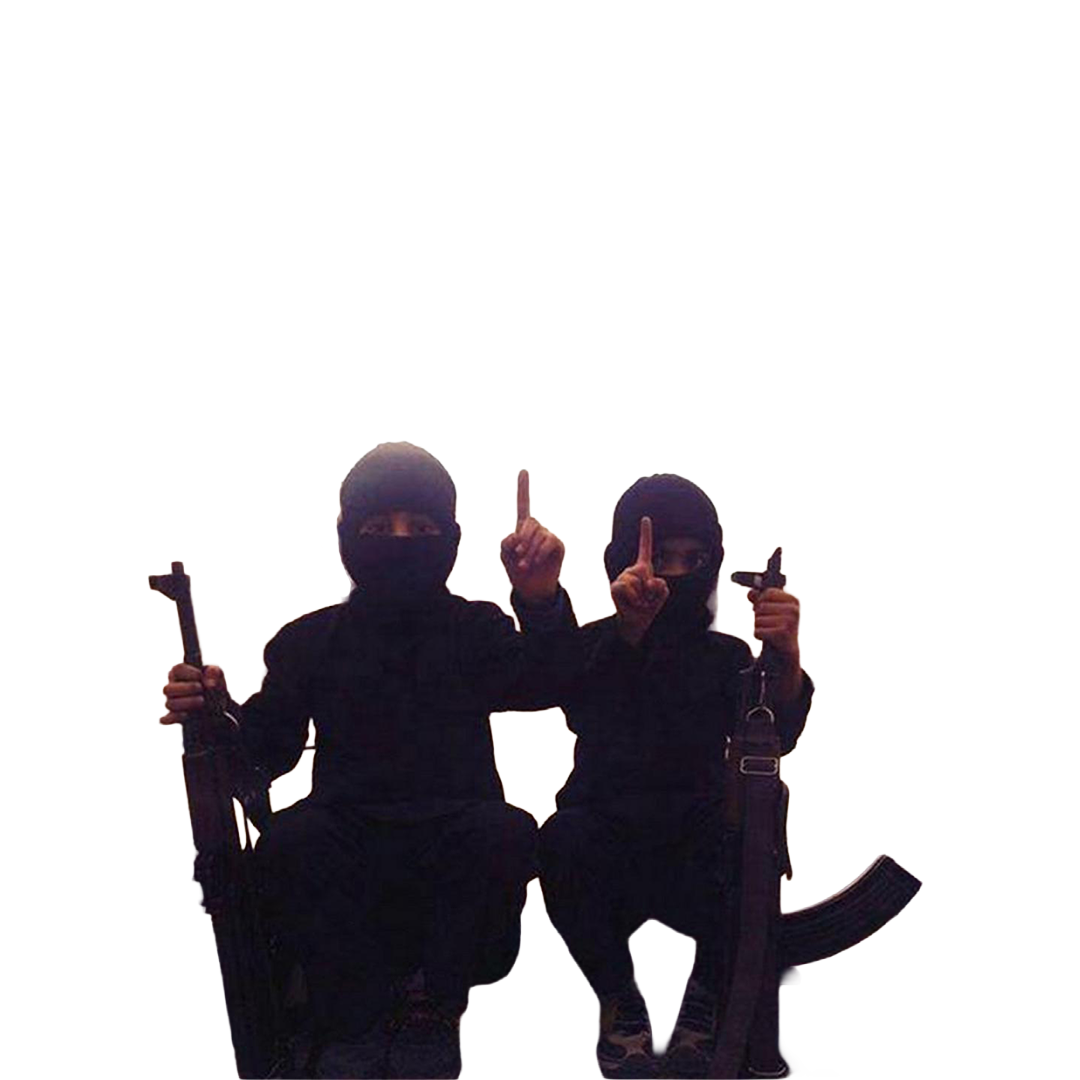
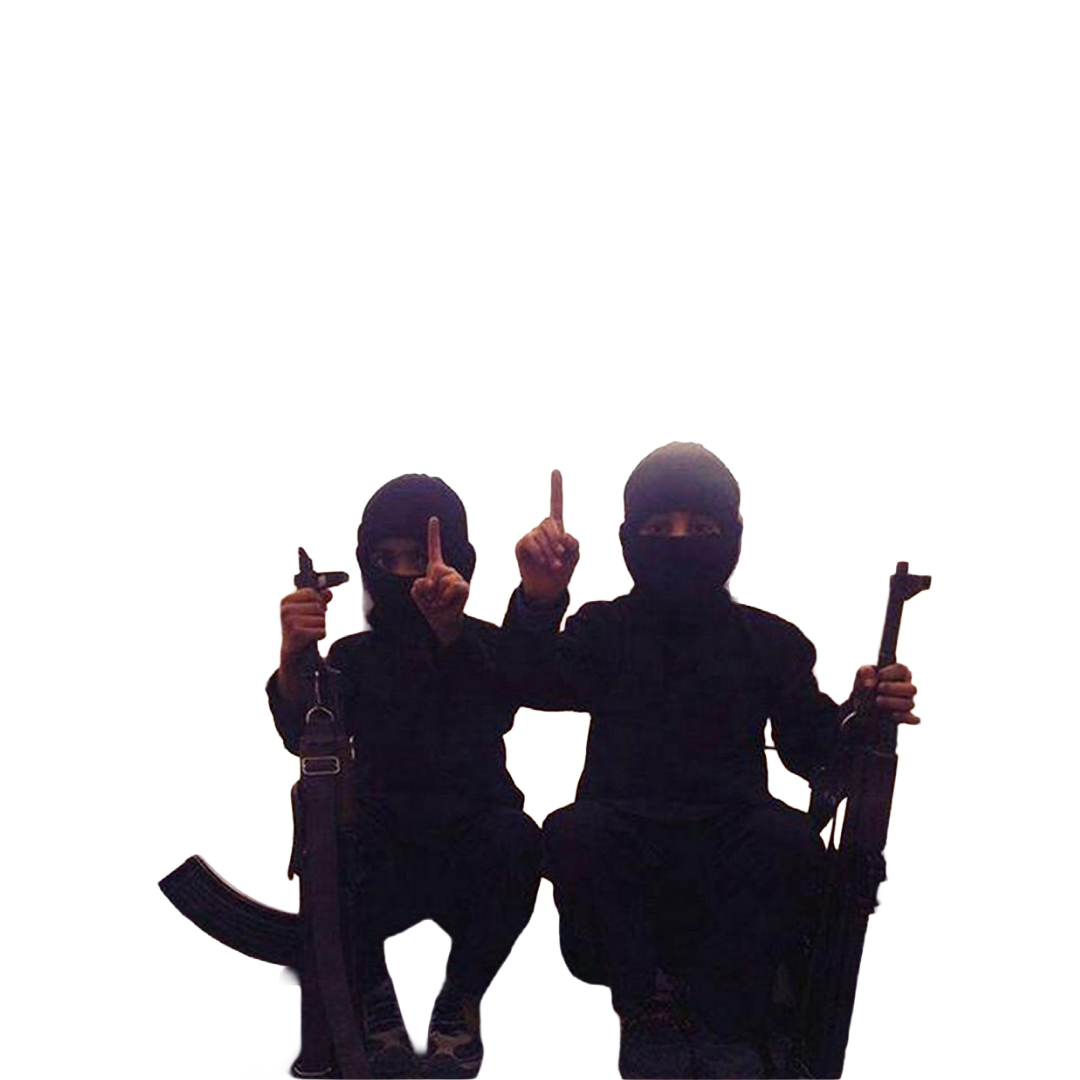
Add files via upload

diff --git a/ifnotnowthenwhen.html b/ifnotnowthenwhen.html
@@ -1,0 +1,40 @@
+<!doctype html>
+<html>
+<head>
+<meta charset="utf-8">
+<title>Untitled Page</title>
+<meta name="generator" content="WYSIWYG Web Builder 17 - https://www.wysiwygwebbuilder.com">
+<link href="heresyworld.css" rel="stylesheet">
+<link href="ifnotnowthenwhen.css" rel="stylesheet">
+</head>
+<body>
+
+<div id="wb_Image4" style="position:absolute;left:79px;top:267px;width:246px;height:387px;z-index:1;">
+<a href="spotify:artist:6MNAaYgMqEhU5rXvo32oRN?si=0t-HRmNFRzS_nyRR_9kL6A"><img src="images/spotify.png" id="Image4" alt="" width="246" height="387"></a></div>
+<div id="wb_Image3" style="position:absolute;left:71px;top:636px;width:595px;height:595px;z-index:2;">
+<a href="https://music.apple.com/gb/artist/heresy/1889057491"><img src="images/apple music.png" id="Image3" alt="" width="625" height="625"></a></div>
+<div id="wb_Image2" style="position:absolute;left:259px;top:161px;width:642px;height:698px;z-index:3;">
+<table cellpadding="0" cellspacing="0" id="Image2" style="line-height:0">
+<tr>
+<td><a href="https://www.youtube.com/@heresy8va"><img src="images/youtube_slice00.png" id="Image2_slice0" alt="" style="width:257px;height:267px;" width="773" height="853"></a></td>
+<td><a href="https://www.youtube.com/@heresy8va"><img src="images/youtube_slice01.png" id="Image2_slice1" alt="" style="width:258px;height:267px;" width="773" height="853"></a></td>
+<td><a href="https://www.youtube.com/@heresy8va"><img src="images/youtube_slice02.png" id="Image2_slice2" alt="" style="width:258px;height:267px;" width="773" height="853"></a></td>
+</tr>
+<tr>
+<td><a href="https://www.youtube.com/@heresy8va"><img src="images/youtube_slice03.png" id="Image2_slice3" alt="" style="width:257px;height:268px;" width="773" height="853"></a></td>
+<td><a href="https://www.youtube.com/@heresy8va"><img src="images/youtube_slice04.png" id="Image2_slice4" alt="" style="width:258px;height:268px;" width="773" height="853"></a></td>
+<td><a href="https://www.youtube.com/@heresy8va"><img src="images/youtube_slice05.png" id="Image2_slice5" alt="" style="width:258px;height:268px;" width="773" height="853"></a></td>
+</tr>
+<tr>
+<td><a href="https://www.youtube.com/@heresy8va"><img src="images/youtube_slice06.png" id="Image2_slice6" alt="" style="width:257px;height:268px;" width="773" height="853"></a></td>
+<td><a href="https://www.youtube.com/@heresy8va"><img src="images/youtube_slice07.png" id="Image2_slice7" alt="" style="width:258px;height:268px;" width="773" height="853"></a></td>
+<td><a href="https://www.youtube.com/@heresy8va"><img src="images/youtube_slice08.png" id="Image2_slice8" alt="" style="width:258px;height:268px;" width="773" height="853"></a></td>
+</tr>
+</table>
+</div>
+<div id="wb_Text1" style="position:absolute;left:345px;top:1151px;width:1328px;height:21px;z-index:4;">
+<span style="color:#000000;font-family:Arial;font-size:9.3px;">models provided courtesy of @final_loss<br></span></div>
+<div id="wb_Image1" style="position:absolute;left:45px;top:1121px;width:756px;height:567px;z-index:5;">
+<a href="./index.html"><img src="images/home button.png" id="Image1" alt="" width="835" height="626"></a></div>
+</body>
+</html>

diff --git a/ifnotnowthenwhen.css b/ifnotnowthenwhen.css
@@ -1,8 +1,6 @@
 body
 {
-   background-color: #000000;
-   background-image: url('images/index_bkgrnd.png');
-   background-repeat: repeat-y;
+   background-color: #800080;
    color: #000000;
    font-family: Arial;
    font-weight: normal;
@@ -33,58 +31,11 @@ input:focus, textarea:focus, select:focus
 {
    outline: none;
 }
-#wb_Text1 
-{
-   background-color: transparent;
-   background-image: none;
-   border: 0px solid #FFFFFF;
-   border-image-source: url();
-   border-image-slice: ;
-   border-image-width: 0px;
-   border-image-repeat: stretch;
-   border-radius: 6px;
-   padding: 0;
-   margin: 0;
-   text-align: left;
-}
-#wb_Text1 div
-{
-   text-align: left;
-}
-#wb_Image1
+#wb_Image4
 {
    vertical-align: top;
 }
-#Image1
-{
-   border: 0px solid #000000;
-   border-radius: 0px;
-   padding: 0;
-   margin: 0;
-   left: 0;
-   top: 0;
-   width: 100%;
-   height: 100%;
-}
-#wb_Text2 
-{
-   background-color: transparent;
-   background-image: none;
-   border: 0px solid #000000;
-   border-radius: 0px;
-   padding: 0;
-   margin: 0;
-   text-align: left;
-}
-#wb_Text2 div
-{
-   text-align: left;
-}
-#wb_Image2
-{
-   vertical-align: top;
-}
-#Image2
+#Image4
 {
    border: 0px solid #000000;
    border-radius: 0px;
@@ -104,8 +55,59 @@ input:focus, textarea:focus, select:focus
    border: 0px solid #000000;
    border-radius: 0px;
    padding: 0;
-   -webkit-transform: rotate(19deg);
-   transform: rotate(19deg);
+   filter: drop-shadow(3px 0px 10px rgba(127,255,212,1.00));
+   margin: 0;
+   left: 0;
+   top: 0;
+   width: 100%;
+   height: 100%;
+}
+#wb_Image2
+{
+   vertical-align: top;
+}
+#Image2
+{
+   border: 0px solid #000000;
+   border-radius: 0px;
+   padding: -50px -50px -50px -50px;
+   -webkit-transform: rotate(337deg);
+   transform: rotate(337deg);
+   -webkit-transform-origin: 50% 50%;
+   transform-origin: 50% 50%;
+   filter: drop-shadow(0px 0px 10px rgba(0,0,0,1.00));
+   left: 0;
+   top: 0;
+   width: 100%;
+   height: 100%;
+}
+#wb_Text1 
+{
+   background-color: transparent;
+   background-image: none;
+   border: 0px solid #000000;
+   border-radius: 0px;
+   padding: 0;
+   margin: 0;
+   text-align: left;
+   -webkit-transform: rotate(355deg);
+   transform: rotate(355deg);
+}
+#wb_Text1 div
+{
+   text-align: left;
+}
+#wb_Image1
+{
+   vertical-align: top;
+}
+#Image1
+{
+   border: 0px solid #000000;
+   border-radius: 0px;
+   padding: 0;
+   -webkit-transform: rotate(9deg);
+   transform: rotate(9deg);
    -webkit-transform-origin: 50% 50%;
    transform-origin: 50% 50%;
    left: 0;

diff --git a/index.html b/index.html
@@ -9,13 +9,15 @@
 </head>
 <body>
 
-<div id="wb_Text1" style="position:absolute;left:54px;top:17px;width:1100px;height:166px;z-index:1;">
-<span style="color:#000000;font-family:'Bebas Neue';font-size:139px;">heresy has a website</span></div>
-<div id="wb_Image1" style="position:absolute;left:696px;top:0px;width:1080px;height:1080px;z-index:2;">
+<div id="wb_Text1" style="position:absolute;left:17px;top:7px;width:1130px;height:128px;z-index:1;">
+<span style="color:#000000;font-family:'Bebas Neue';font-size:107px;">heresy has a website.</span></div>
+<div id="wb_Image1" style="position:absolute;left:701px;top:1176px;width:1080px;height:1080px;z-index:2;">
 <img src="images/Terrorizt.png" id="Image1" alt="" width="1080" height="1080"></div>
-<div id="wb_Image2" style="position:absolute;left:1px;top:0px;width:1080px;height:1080px;z-index:3;">
-<img src="images/Terrorizt.png" id="Image2" alt="" width="1080" height="1080"></div>
-<div id="wb_Image3" style="position:absolute;left:1081px;top:210px;width:244px;height:182px;z-index:4;">
-<a href="./links.html"><img src="images/linksz.png" id="Image3" alt="" width="244" height="183"></a></div>
+<div id="wb_Text2" style="position:absolute;left:17px;top:342px;width:376px;height:15px;z-index:3;">
+<span style="color:#000000;font-family:Arial;font-size:13px;">the new EP by heresy entitled, pH released on the xx/xx/xx:</span></div>
+<div id="wb_Image2" style="position:absolute;left:90px;top:378px;width:182px;height:182px;z-index:4;">
+<a href="spotify:album:4bCsLPQuCdQQBQOLs5MuNr?si=PpYUtSTTSPCRxbLMrlbnow"><img src="images/deth21.png" id="Image2" alt="" width="182" height="182"></a></div>
+<div id="wb_Image3" style="position:absolute;left:476px;top:154px;width:346px;height:328px;z-index:5;">
+<a href="./ifnotnowthenwhen.html"><img src="images/Dice.png" id="Image3" alt="" width="433" height="433"></a></div>
 </body>
 </html>
